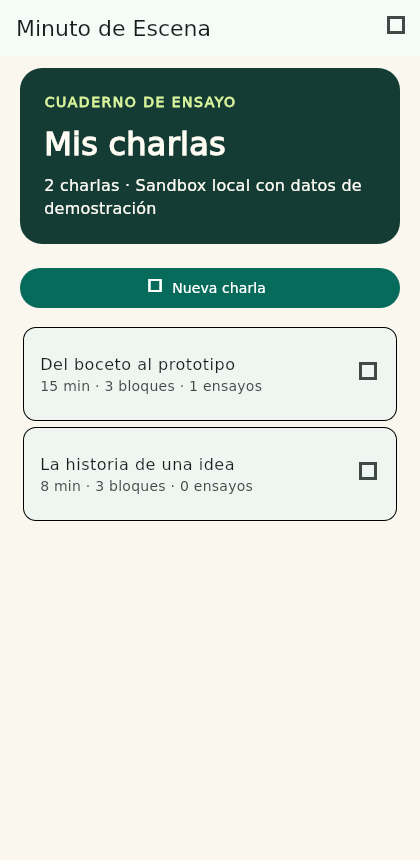
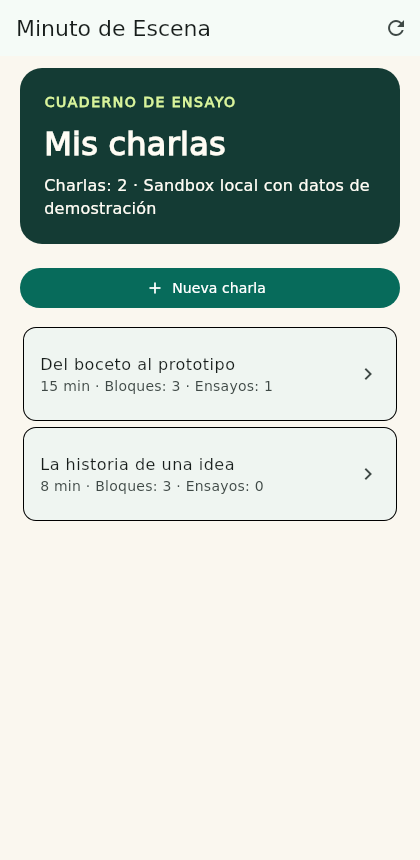
Completar guías y capturas reales del cuaderno (#1)
* docs: adaptar las instrucciones iOS y excluir archivos locales

* fix: cargar los iconos reales en las capturas del cuaderno

* docs: incorporar las capturas verificadas de Flutter

diff --git a/lib/features/talks/presentation/library_page.dart b/lib/features/talks/presentation/library_page.dart
@@ -27,7 +27,7 @@ class LibraryPage extends StatelessWidget {
           Cover(
             'CUADERNO DE ENSAYO',
             'Mis charlas',
-            '${book.talks.length} charlas · Sandbox local con datos de demostración',
+            'Charlas: ${book.talks.length} · Sandbox local con datos de demostración',
           ),
           FilledButton.icon(
             onPressed: book.busy
@@ -61,7 +61,7 @@ class LibraryPage extends StatelessWidget {
                 ),
                 title: Text(talk.title),
                 subtitle: Text(
-                  '${talk.minutes} min · ${talk.blocks.length} bloques · ${talk.runs.length} ensayos',
+                  '${talk.minutes} min · Bloques: ${talk.blocks.length} · Ensayos: ${talk.runs.length}',
                 ),
                 trailing: const Icon(Icons.chevron_right),
                 onTap: book.busy

diff --git a/tool/preview/capture_test.dart b/tool/preview/capture_test.dart
@@ -24,6 +24,9 @@ void main() {
       final data = ByteData.sublistView(file.readAsBytesSync());
       final loader = FontLoader('Roboto')..addFont(Future.value(data));
       await t.runAsync(loader.load);
+      final icons = FontLoader('MaterialIcons');
+      icons.addFont(rootBundle.load('fonts/MaterialIcons-Regular.otf'));
+      await t.runAsync(icons.load);
       final docs = (jsonDecode(
         File('mobilelab/seeds/talks.json').readAsStringSync(),
       ) as List).cast<Json>();

diff --git a/ios/Runner/Assets.xcassets/LaunchImage.imageset/README.md b/ios/Runner/Assets.xcassets/LaunchImage.imageset/README.md
@@ -1,5 +1,11 @@
-# Launch Screen Assets
+# Imagen de arranque de Minuto de Escena en iOS
 
-You can customize the launch screen with your own desired assets by replacing the image files in this directory.
+Para cambiar la imagen de arranque, reemplaza las imágenes de este catálogo o abre `ios/Runner.xcworkspace` con Xcode y arrastra los tamaños correspondientes a `Runner/Assets.xcassets/LaunchImage`. Prueba el resultado con un arranque desde cero en el simulador.
 
-You can also do it by opening your Flutter project's Xcode project with `open ios/Runner.xcworkspace`, selecting `Runner/Assets.xcassets` in the Project Navigator and dropping in the desired images.
+La [guía del proyecto](../../../../README.md) explica cómo arrancar [MobileLab](https://github.com/GianSandoval5/MobileLab), el sandbox local que conserva los guiones y ensayos en SQLite. El código original se distribuye bajo [licencia MIT](../../../../LICENSE). Los componentes de terceros conservan sus respectivas licencias.
+
+Si la aplicación te ayuda a preparar una charla, ¡deja una ⭐ en el [repositorio](https://github.com/GianSandoval5/flutter-minuto-de-escena)!
+
+**Gian Sandoval — Arquitecto Mobile**
+
+[GitHub](https://github.com/GianSandoval5) · [LinkedIn](https://www.linkedin.com/in/giansandoval/) · [Web](https://giansandoval.com)
